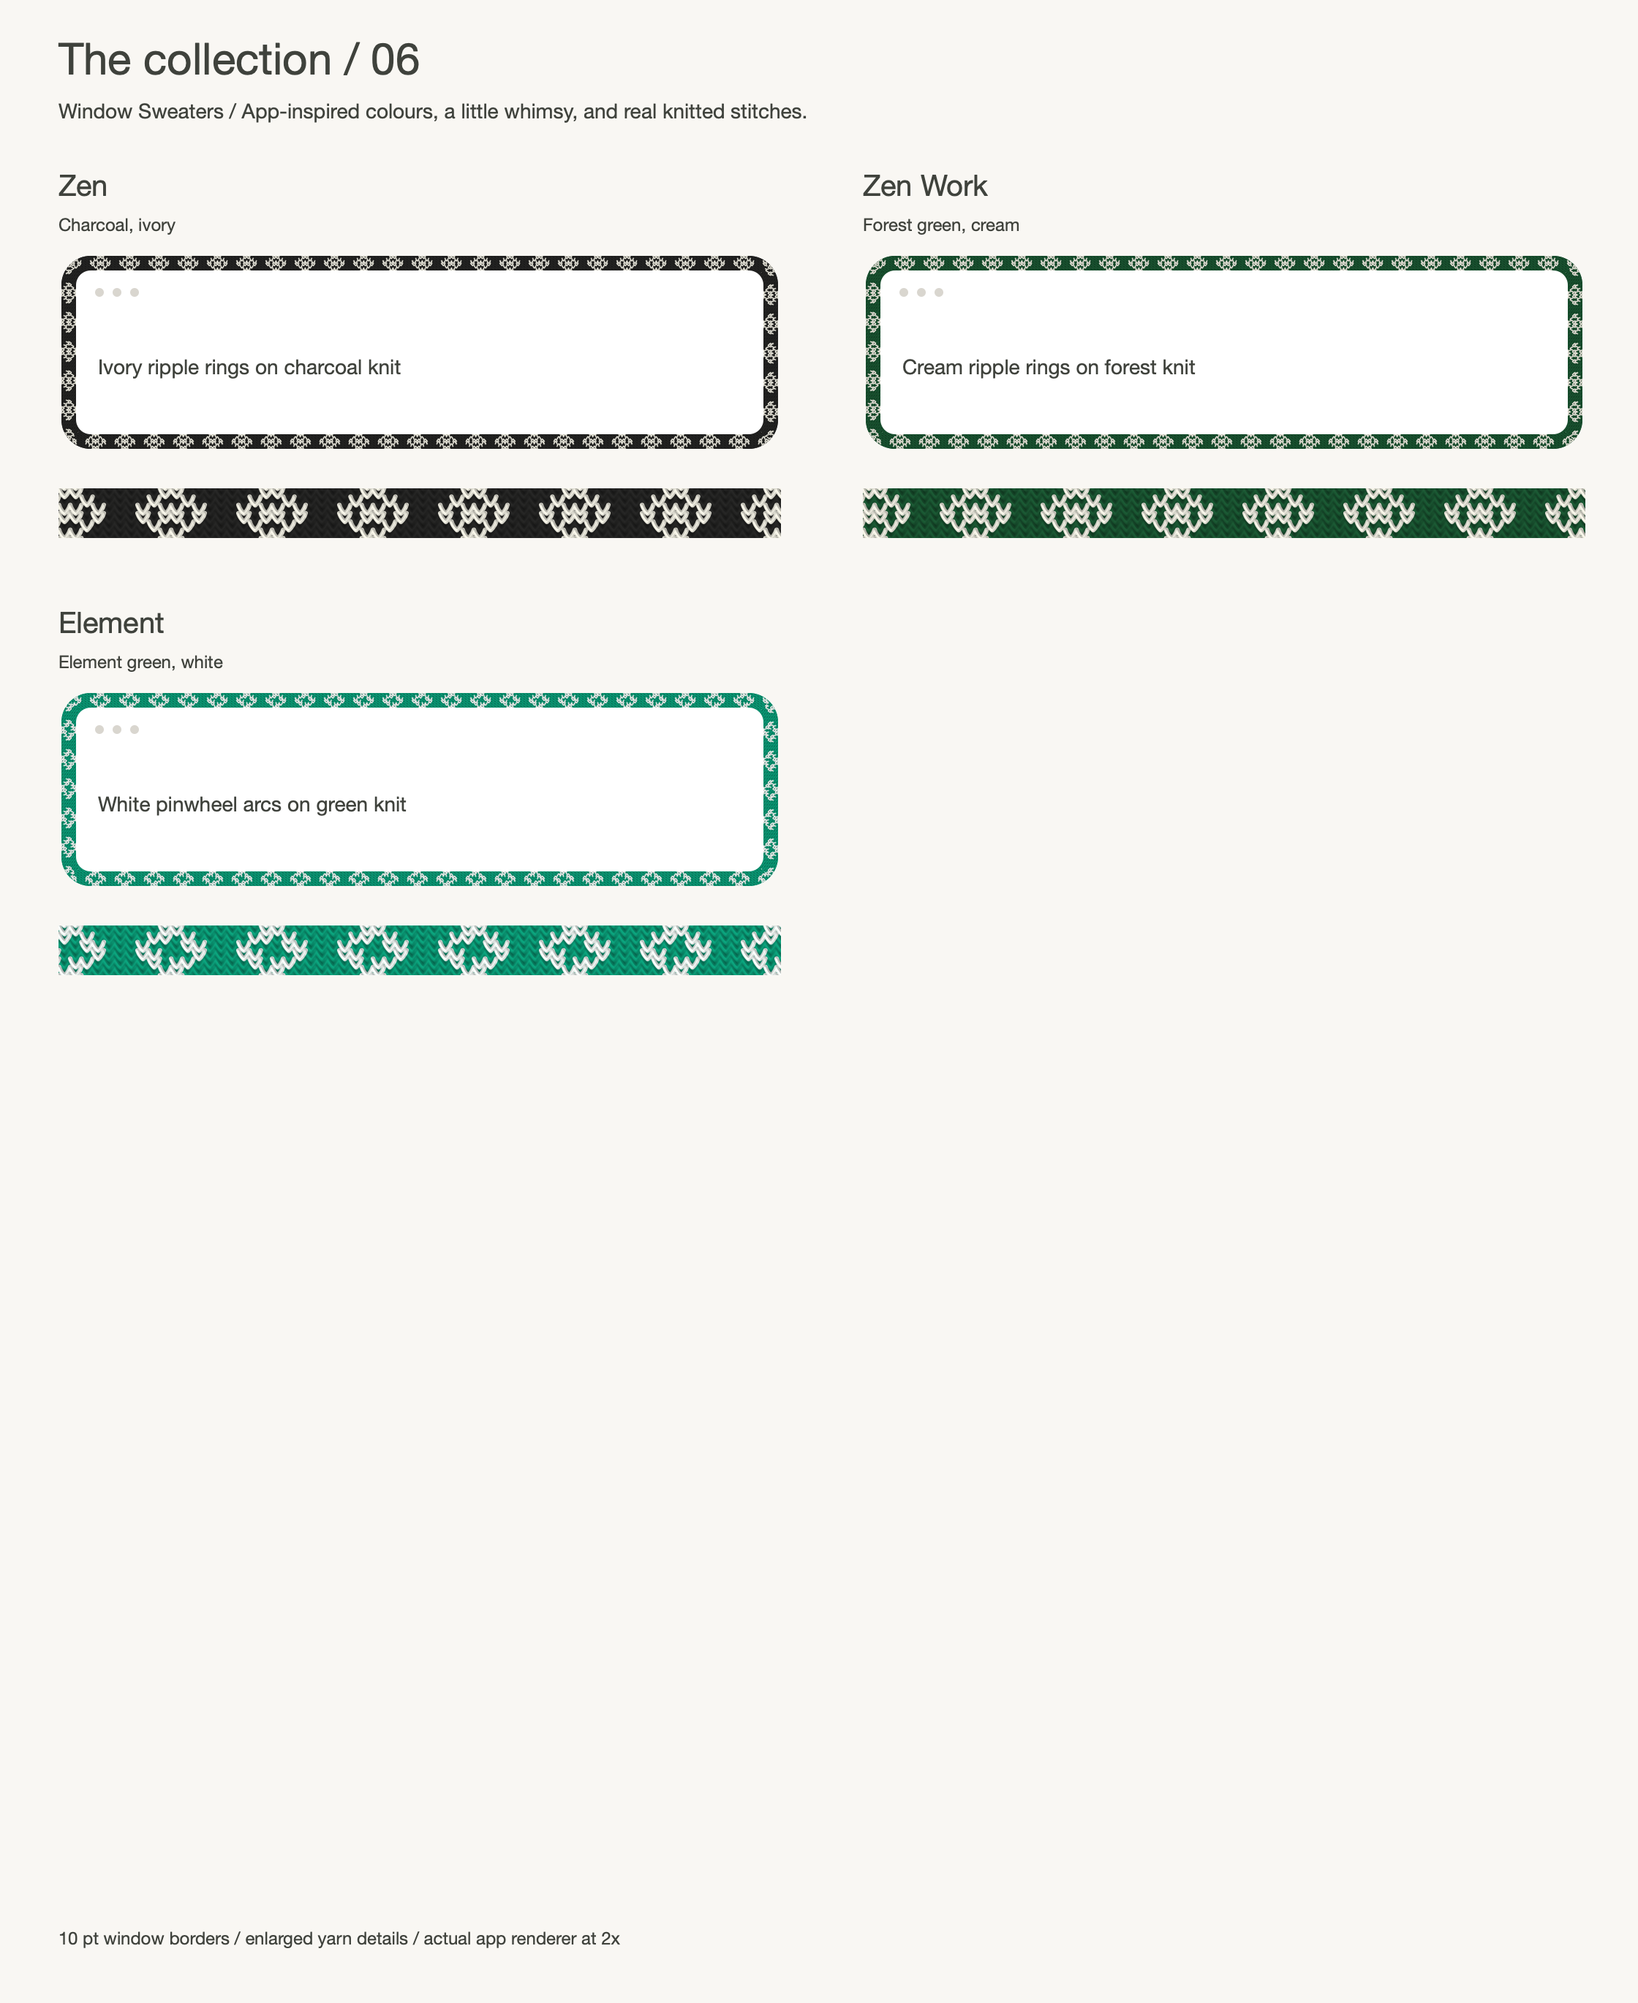
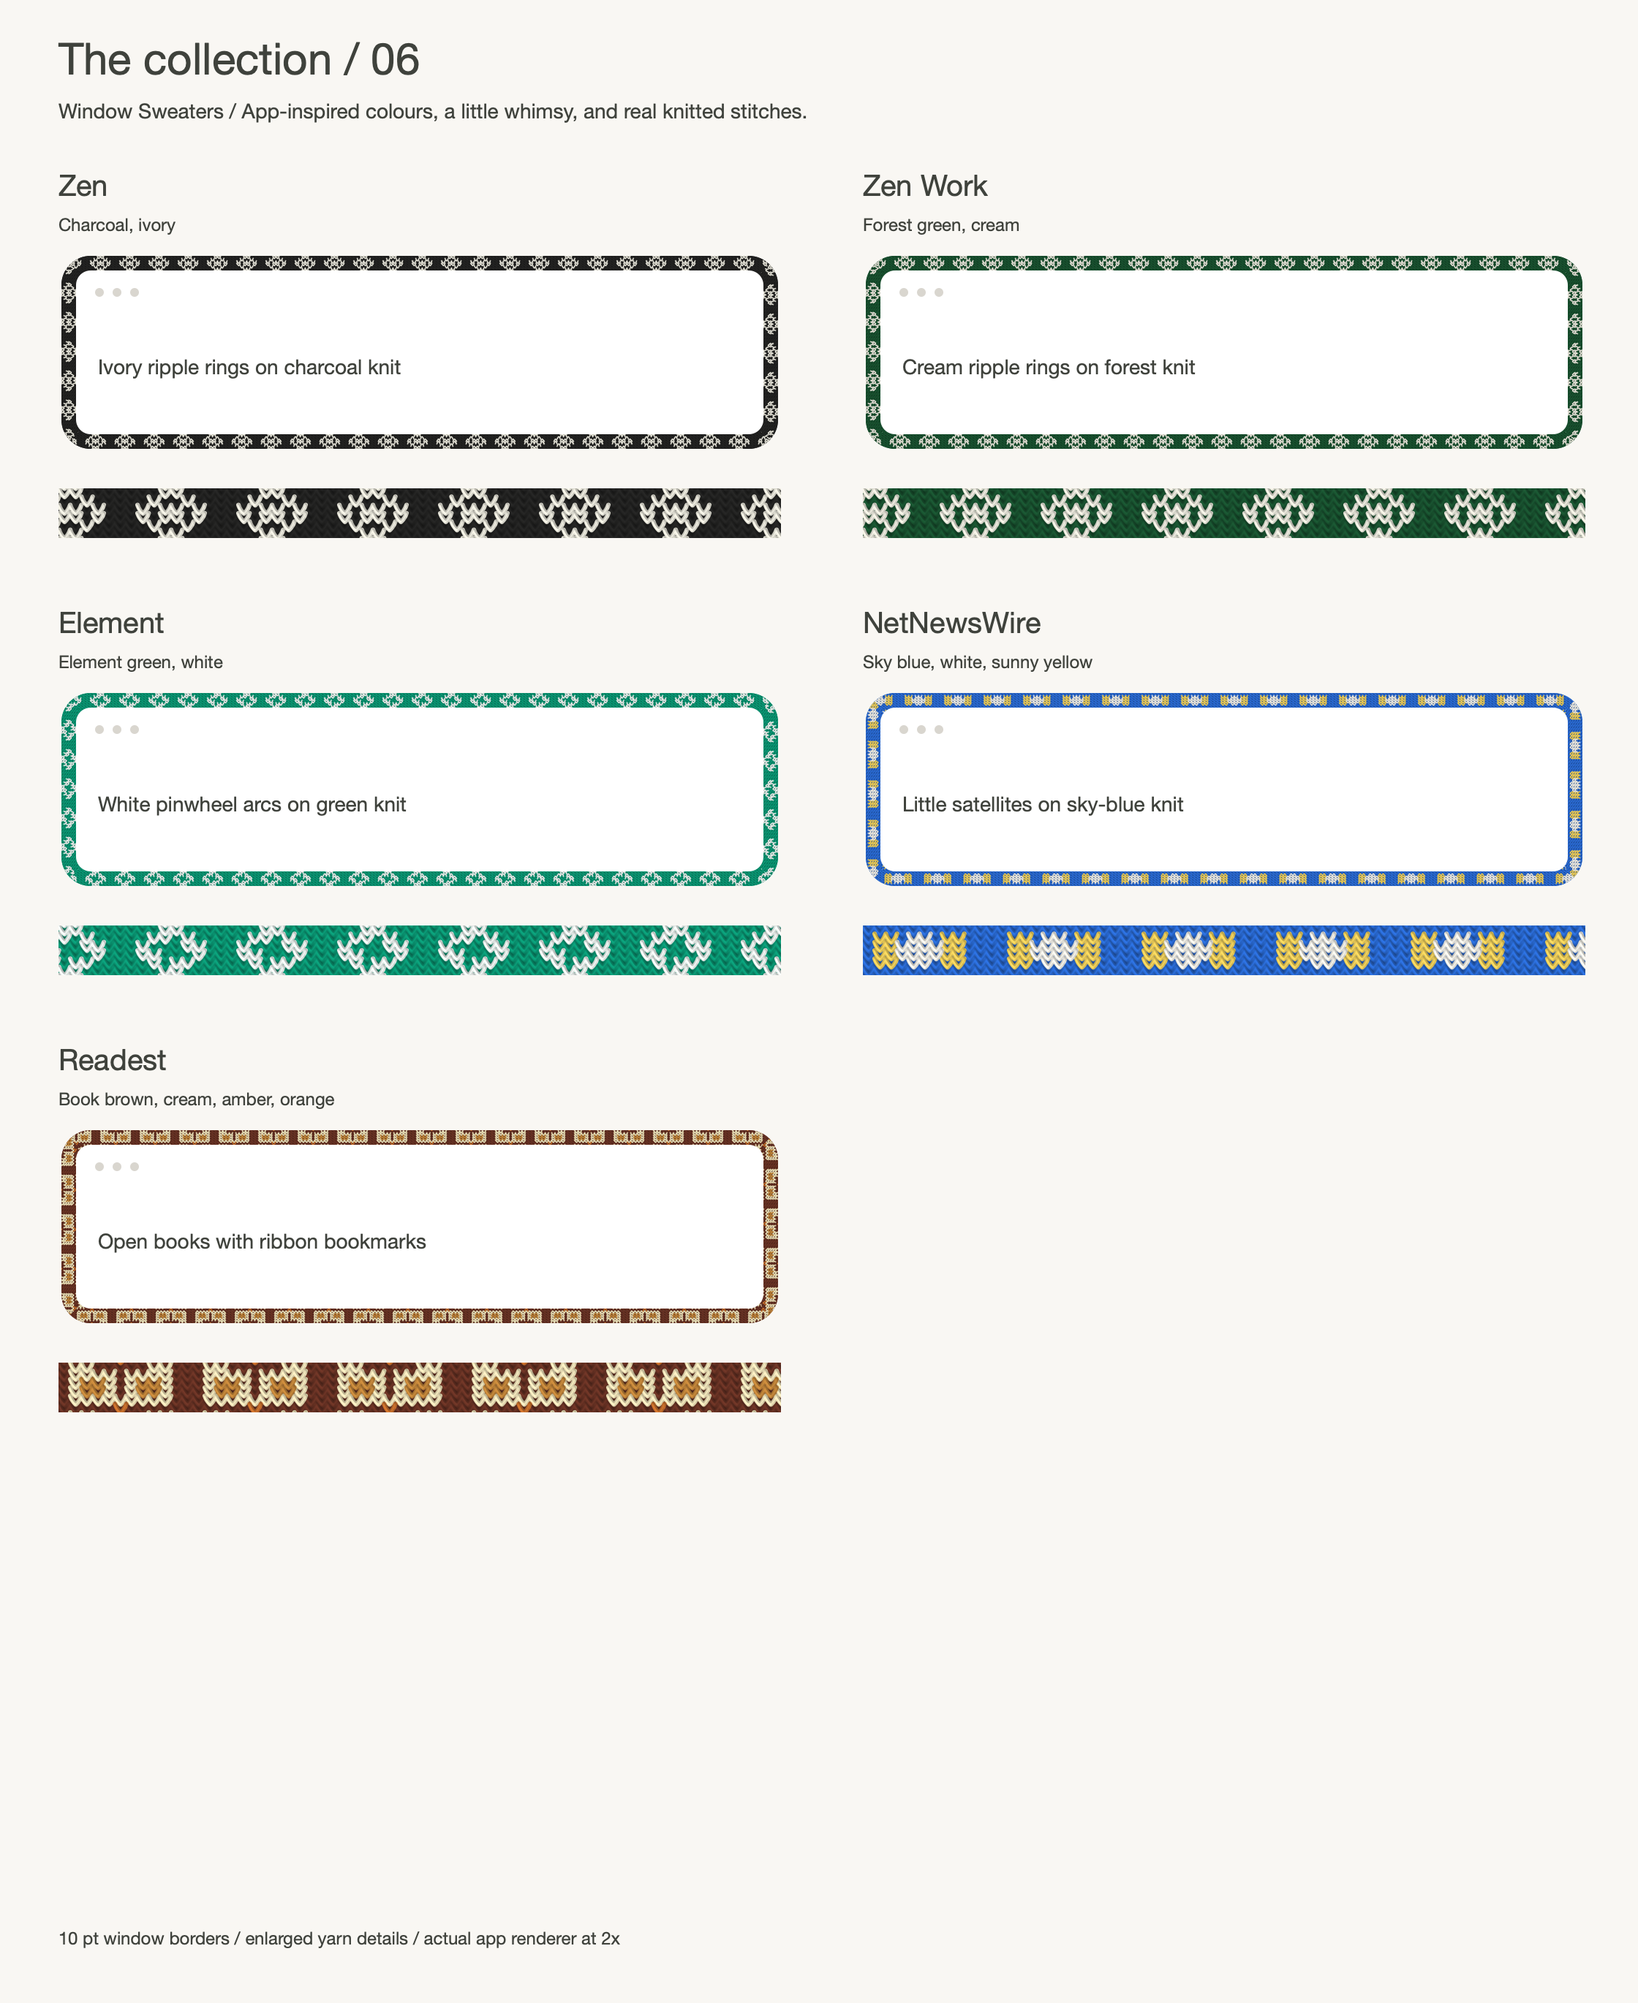
Knit sweaters for NetNewsWire and Readest
NetNewsWire gets little satellites on sky blue: a white body between
yellow solar panels, after its icon. Readest gets open cream books with
amber text and an orange ribbon bookmark on the brown of its cover. The
README groups them under a new Reading line.

The collection grows to 42 apps and 51 charts, with plates 41-42 and
both on the sixth overview page. A test covers Readest's lowercase
executable name.

Changed region(s): [[0.0312, 0.5274, 0.5, 0.7135], [0.5312, 0.3102, 0.9688, 0.4964]]

diff --git a/tests/collection_test.c b/tests/collection_test.c
@@ -17,7 +17,7 @@ static const char* const collection_names[] = {
   "atelier-spotify", "atelier-notion", "atelier-whatsapp", "atelier-figma",
   "atelier-chrome", "atelier-paper",
   "atelier-safari", "atelier-firefox", "atelier-cursor", "atelier-slack", "atelier-zoom", "atelier-telegram", "atelier-messages", "atelier-mail", "atelier-notes", "atelier-calendar", "atelier-reminders", "atelier-music", "atelier-photos", "atelier-preview", "atelier-word", "atelier-excel", "atelier-powerpoint", "atelier-outlook", "atelier-vscode", "atelier-photoshop", "atelier-illustrator",
-  "atelier-granola", "atelier-chatgpt", "atelier-ghostty", "atelier-zen", "atelier-element", "braid", "blockstripe", "checker", "seedling", "trim", "picnic", "ribbon", "posy", "twinkle", "candy-stripe", "zigzag"
+  "atelier-granola", "atelier-chatgpt", "atelier-ghostty", "atelier-zen", "atelier-element", "atelier-netnewswire", "atelier-readest", "braid", "blockstripe", "checker", "seedling", "trim", "picnic", "ribbon", "posy", "twinkle", "candy-stripe", "zigzag"
 };
 enum { COLLECTION_COUNT = sizeof collection_names / sizeof collection_names[0] };
 
@@ -64,7 +64,7 @@ static void test_apps(const char* home) {
   assert(strcmp(knit_app_rule("Google Chrome Helper")->chart, "atelier-chrome") == 0);
   assert(strcmp(knit_app_rule("Chrome")->chart, "atelier-chrome") == 0);
   assert(strcmp(knit_app_rule("Chromium")->chart, "atelier-chrome") == 0);
-  assert(CATALOGUE_COUNT == 40);
+  assert(CATALOGUE_COUNT == 42);
   for (int i = 0; i < CATALOGUE_COUNT; i++) {
     const struct app_rule* rule = knit_app_rule(catalogue[i].match);
     assert(rule && strcmp(rule->chart, catalogue[i].chart) == 0);
@@ -72,6 +72,7 @@ static void test_apps(const char* home) {
   assert(strcmp(knit_app_rule("Zoom")->chart, "atelier-zoom") == 0);
   assert(knit_app_rule("Zen")->color == 0xff232322 && knit_app_rule("Zen Work")->color == 0xff1a5632);
   assert(strcmp(knit_app_rule("Zen Work")->chart, "atelier-zen") == 0);
+  assert(strcmp(knit_app_rule("readest")->chart, "atelier-readest") == 0); // its executable name
   assert(strcmp(knit_app_rule("Visual Studio Code")->chart, "atelier-vscode") == 0);
   assert(strcmp(knit_app_rule("Adobe Photoshop 2026")->chart, "atelier-photoshop") == 0);
   assert(knit_app_rule("Electron") == NULL);
@@ -187,7 +188,7 @@ static void test_preserved_charts(void) {
 }
 
 static void test_charts(const char* dir) {
-  assert(COLLECTION_COUNT == 49);
+  assert(COLLECTION_COUNT == 51);
   assert(knit_charts_load("/does-not-exist/knit-test") == COLLECTION_COUNT);
   for (int i = 0; i < COLLECTION_COUNT; i++) {
     assert(knit_chart_index(collection_names[i]) == i); // names are unique and stable
@@ -292,6 +293,6 @@ int main(void) {
   assert(rmdir(support) == 0);
   assert(rmdir(library) == 0);
   assert(rmdir(home) == 0);
-  puts("Collection tests passed: 40 app profiles, 49 valid charts, strict parsing, app precedence, By App/global/plain patterns, Chrome, overrides, stable reloads.");
+  puts("Collection tests passed: 42 app profiles, 51 valid charts, strict parsing, app precedence, By App/global/plain patterns, Chrome, overrides, stable reloads.");
   return 0;
 }

diff --git a/src/apps.c b/src/apps.c
@@ -61,6 +61,8 @@ static const struct app_rule k_collection[] = {
   { "Zen", 0xff232322u, "atelier-zen" },
   { "Zen Work", 0xff1a5632u, "atelier-zen" },
   { "Element", 0xff0b9e79u, "atelier-element" },
+  { "NetNewsWire", 0xff2c6fdcu, "atelier-netnewswire" },
+  { "Readest", 0xff6e3526u, "atelier-readest" },
 };
 
 static const char* k_default_conf =
@@ -75,7 +77,7 @@ static const char* k_default_conf =
   "#\n"
   "# Edit, then restart Window Sweaters to load your changes.\n"
   "\n"
-  "# 40 apps already have their own yarn and chart; see docs/COLLECTION.md.\n"
+  "# 42 apps already have their own yarn and chart; see docs/COLLECTION.md.\n"
   "# Uncomment to customize:\n"
   "# Claude = #D58561 atelier-claude\n";
 

diff --git a/tests/catalogue.h b/tests/catalogue.h
@@ -42,5 +42,7 @@ static const struct catalogue_entry catalogue[] = {
   { "Zen", "Zen", "atelier-zen", "Charcoal, ivory", "Ivory ripple rings on charcoal knit" },
   { "Zen Work", "Zen Work", "atelier-zen", "Forest green, cream", "Cream ripple rings on forest knit" },
   { "Element", "Element", "atelier-element", "Element green, white", "White pinwheel arcs on green knit" },
+  { "NetNewsWire", "NetNewsWire", "atelier-netnewswire", "Sky blue, white, sunny yellow", "Little satellites on sky-blue knit" },
+  { "Readest", "Readest", "atelier-readest", "Book brown, cream, amber, orange", "Open books with ribbon bookmarks" },
 };
 enum { CATALOGUE_COUNT = sizeof catalogue / sizeof catalogue[0] };

diff --git a/src/chart.c b/src/chart.c
@@ -189,6 +189,14 @@ static const struct collection_chart k_collection[] = {
       "..aa.....", ".aa.a....", "a...aa...",
       "aa...a...", ".a.aa....", "..aa....." },
     { 0xfff3f9f6u } },
+  { "atelier-netnewswire", {
+      "............", "bb.aa.bb....", "bbaaaabb....",
+      "bbaaaabb....", "bb.aa.bb....", "............" },
+    { 0xfff6f4ecu, 0xfff5d55eu } },
+  { "atelier-readest", {
+      "aa.....aa...", "aaaa.aaaa...", "abba.abba...",
+      "abba.abba...", "aaaaaaaaa...", "....c......." },
+    { 0xfff7ebc0u, 0xffc98a3cu, 0xffd0742eu } },
   { "braid", {
       "abb........a", "a.bb......aa", "...bb....aaa",
       "....bb..aaa.", ".....bbaaa..", "......bba...",

diff --git a/src/misc/autoyarn.h b/src/misc/autoyarn.h
@@ -12,7 +12,7 @@ void knit_auto_yarn_ready(pid_t pid);
 
 // The shared Zigzag pattern: true while it is the selected pattern.
 bool knit_zigzag_active(void);
-// Shared Zigzag for any app, the 40 hand-designed ones included: its main yarn
+// Shared Zigzag for any app, the 42 hand-designed ones included: its main yarn
 // from its icon (unchanged while sampling, or if the icon has no colour), and
 // a cream zigzag, or a deeper shade of that yarn when the yarn is pale.
 // *yarn comes in as the app's usual colour; *chart as the shared zigzag.

diff --git a/src/border.c b/src/border.c
@@ -120,7 +120,7 @@ static void border_draw(struct border* border, CGRect frame, struct settings* se
     const struct app_rule* rule = knit_app_rule(border->app);
     if (rule) yarn = rule->color;
     if (knit_zigzag_active()) {
-      // One shared pattern, every app in its icon's colour, the 40
+      // One shared pattern, every app in its icon's colour, the 42
       // hand-designed sweaters included; their own colours stay in By App.
       knit_zigzag_yarn(border->app, border->owner_pid, &yarn, &chart);
     } else if (!rule) {

diff --git a/tests/autoyarn.m b/tests/autoyarn.m
@@ -253,7 +253,7 @@ int main(void) { @autoreleasepool {
   assert(request("Table full",800,&yarn)>=0);
   puts("PASS: chart-capacity fallback and recovery after reload");
 
-  // Shared Zigzag: every app in its icon's colour, the 40 included, on a
+  // Shared Zigzag: every app in its icon's colour, the 42 included, on a
   // cream zigzag, or a deeper shade of its own colour when that is pale.
   knit_charts_load(NULL);knit_flush_cache();
   int zig=knit_chart_index("zigzag");

diff --git a/tests/render.c b/tests/render.c
@@ -551,7 +551,7 @@ static void verify_corners(void) {
         }
         CGContextRelease(actual); CGContextRelease(mask);
       }
-  puts("PASS: all 40 profiles, unchanged 10 pt width, all four opaque corners, square/rounded/clamped radii at 1x/2x");
+  puts("PASS: all 42 profiles, unchanged 10 pt width, all four opaque corners, square/rounded/clamped radii at 1x/2x");
 }
 
 // A contrasting test fabric exposes the exact patch boundary independently

diff --git a/docs/COLLECTION.md b/docs/COLLECTION.md
@@ -1,8 +1,8 @@
 # The sweater collection
 
-40 app-inspired colourways, rendered by Window Sweaters. Choose **Pattern → By App** to give each app its own sweater, or **Zigzag** for a shared pattern in each app’s icon colour.
+42 app-inspired colourways, rendered by Window Sweaters. Choose **Pattern → By App** to give each app its own sweater, or **Zigzag** for a shared pattern in each app’s icon colour.
 
-[Download the By App catalogue](catalogues/Window-Sweaters-Catalogue.pdf) (the original 37 apps; Zen, Zen Work and Element are only on this page)
+[Download the By App catalogue](catalogues/Window-Sweaters-Catalogue.pdf) (the original 37 apps; 38–42 are only on this page)
 
 The PDF shows the default **12 pt width and six stitch rows**. The reference plates below use 10 pt borders and include enlarged yarn and all four corners. All collection images use the actual app renderer and built-in colourways, without personal overrides.
 
@@ -12,7 +12,7 @@ Visible knitted stitches, restrained colour palettes, and familiar sweater patte
 
 Most corners continue the pattern. WhatsApp uses textured corner patches; Notes and Calendar have curved outer cuffs. Stitch direction changes and partial motifs can remain visible at corner joins, especially when enlarged. The images show a reference window size, not a guarantee of identical joins at every size.
 
-Global Zigzag gives every app one shared pattern in colours taken from its own icon, softened into yarn, with a cream zigzag. On a pale app the zigzag is a deeper shade of the app’s own colour instead, so it still shows. This includes the 40 apps above: their hand-picked colours stay in By App. An app whose icon has no usable colour keeps its usual colour, and a colour you set yourself in `apps.conf` always wins. If you replace the pattern with your own `zigzag.png`, it is shown exactly as you drew it. In the rare case Window Sweaters runs out of room for a pale app’s zigzag, that app knits plain until there is room.
+Global Zigzag gives every app one shared pattern in colours taken from its own icon, softened into yarn, with a cream zigzag. On a pale app the zigzag is a deeper shade of the app’s own colour instead, so it still shows. This includes the 42 apps above: their hand-picked colours stay in By App. An app whose icon has no usable colour keeps its usual colour, and a colour you set yourself in `apps.conf` always wins. If you replace the pattern with your own `zigzag.png`, it is shown exactly as you drew it. In the rare case Window Sweaters runs out of room for a pale app’s zigzag, that app knits plain until there is room.
 
 App names describe colour inspiration and do not imply affiliation or endorsement.
 
@@ -60,6 +60,8 @@ App names describe colour inspiration and do not imply affiliation or endorsemen
 | [Zen](#38-zen) | Charcoal, ivory | Ivory ripple rings on charcoal knit |
 | [Zen Work](#39-zen-work) | Forest green, cream | Cream ripple rings on forest knit |
 | [Element](#40-element) | Element green, white | White pinwheel arcs on green knit |
+| [NetNewsWire](#41-netnewswire) | Sky blue, white, sunny yellow | Little satellites on sky-blue knit |
+| [Readest](#42-readest) | Book brown, cream, amber, orange | Open books with ribbon bookmarks |
 
 ## 01 Finder
 
@@ -380,3 +382,19 @@ White pinwheel arcs on green knit.
 **Palette:** Element green, white.
 
 ![Element: window border, enlarged yarn and all four corners](collection/app-40.png)
+
+## 41 NetNewsWire
+
+Little satellites on sky-blue knit.
+
+**Palette:** Sky blue, white, sunny yellow.
+
+![NetNewsWire: window border, enlarged yarn and all four corners](collection/app-41.png)
+
+## 42 Readest
+
+Open books with ribbon bookmarks.
+
+**Palette:** Book brown, cream, amber, orange.
+
+![Readest: window border, enlarged yarn and all four corners](collection/app-42.png)

diff --git a/README.md b/README.md
@@ -40,7 +40,7 @@ If macOS asks for Accessibility access, enable Window Sweaters in **System Setti
 
 ## The sweaters
 
-**Custom sweaters for 40 apps, and counting!** 40 little colourways, with colours picked by hand. These are just a few of my favourites:
+**Custom sweaters for 42 apps, and counting!** 42 little colourways, with colours picked by hand. These are just a few of my favourites:
 
 ![Eight apps shown in By App and Zigzag styles, with enlarged yarn details](docs/collection/styles-comparison.png)
 
@@ -51,13 +51,14 @@ Shown above in By App and Zigzag. Here’s everyone we’ve knitted for so far:
 - **Coding and AI:** Cursor, VS Code, Claude, ChatGPT, Codex, Grok Bot, Ghostty.
 - **Design:** Figma, Adobe Photoshop, Adobe Illustrator.
 - **Microsoft Office:** Word, Excel, PowerPoint, Outlook.
+- **Reading:** NetNewsWire, Readest.
 - **More favourites:** Spotify, WhatsApp, Google Chrome, Firefox, Zen, Zen Work, Telegram, Discord, Element.
 
 See every sweater and its close-up stitches in the [catalogue](docs/COLLECTION.md), or download the [By App PDF](docs/catalogues/Window-Sweaters-Catalogue.pdf) (the original 37).
 
-The 40 custom sweaters keep their hand-picked colours and patterns. Other apps borrow colours from their own icons, softened into yarn, and get a two-colour zigzag, picnic or twinkle sweater in **By App** mode. The pattern stays the same for each app. If an icon has no usable colour, the app keeps a stable colour chosen from its name.
+The 42 custom sweaters keep their hand-picked colours and patterns. Other apps borrow colours from their own icons, softened into yarn, and get a two-colour zigzag, picnic or twinkle sweater in **By App** mode. The pattern stays the same for each app. If an icon has no usable colour, the app keeps a stable colour chosen from its name.
 
-Icons are sampled locally in the background when needed. While the colour is being prepared, the border uses its usual fallback. **Zigzag** uses icon colours for every app, the 40 custom ones included, with a cream zigzag, or a deeper shade of the app’s colour on pale apps. Colours you set in `apps.conf` always win. Other shared patterns keep their own contrast yarns, with each app’s own base colour.
+Icons are sampled locally in the background when needed. While the colour is being prepared, the border uses its usual fallback. **Zigzag** uses icon colours for every app, the 42 custom ones included, with a cream zigzag, or a deeper shade of the app’s colour on pale apps. Colours you set in `apps.conf` always win. Other shared patterns keep their own contrast yarns, with each app’s own base colour.
 
 ## A little work in progress
 
